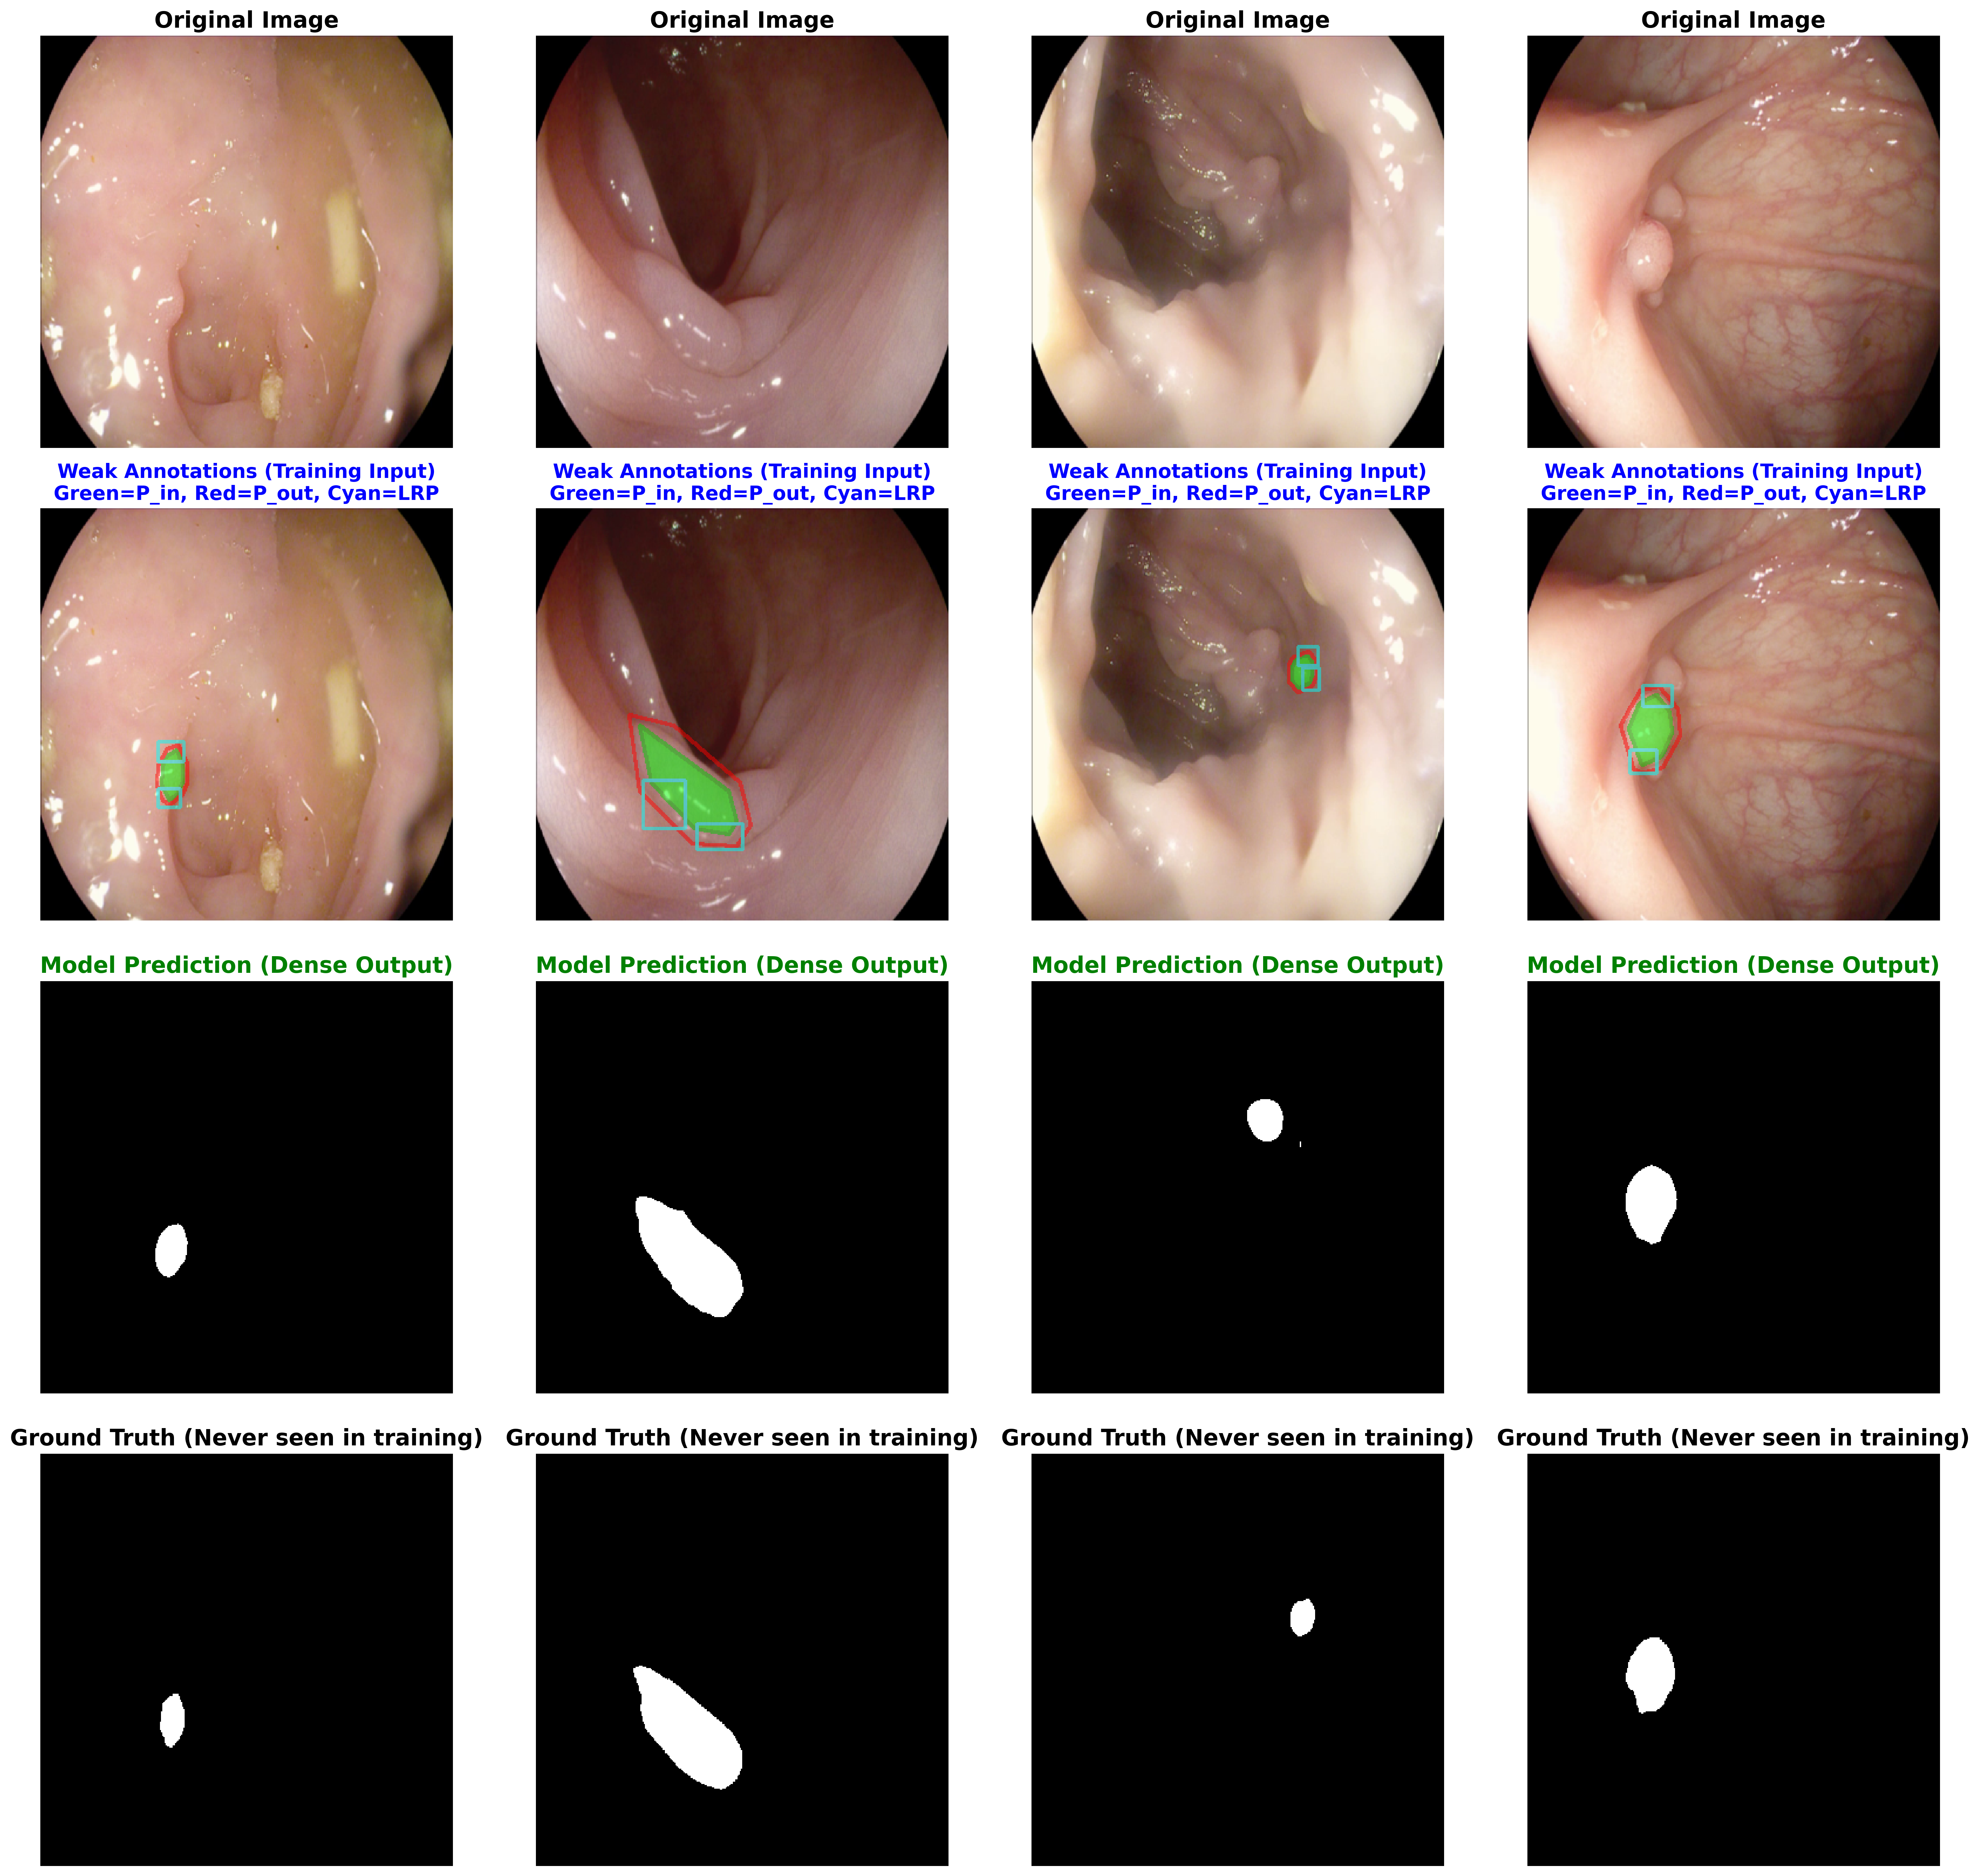
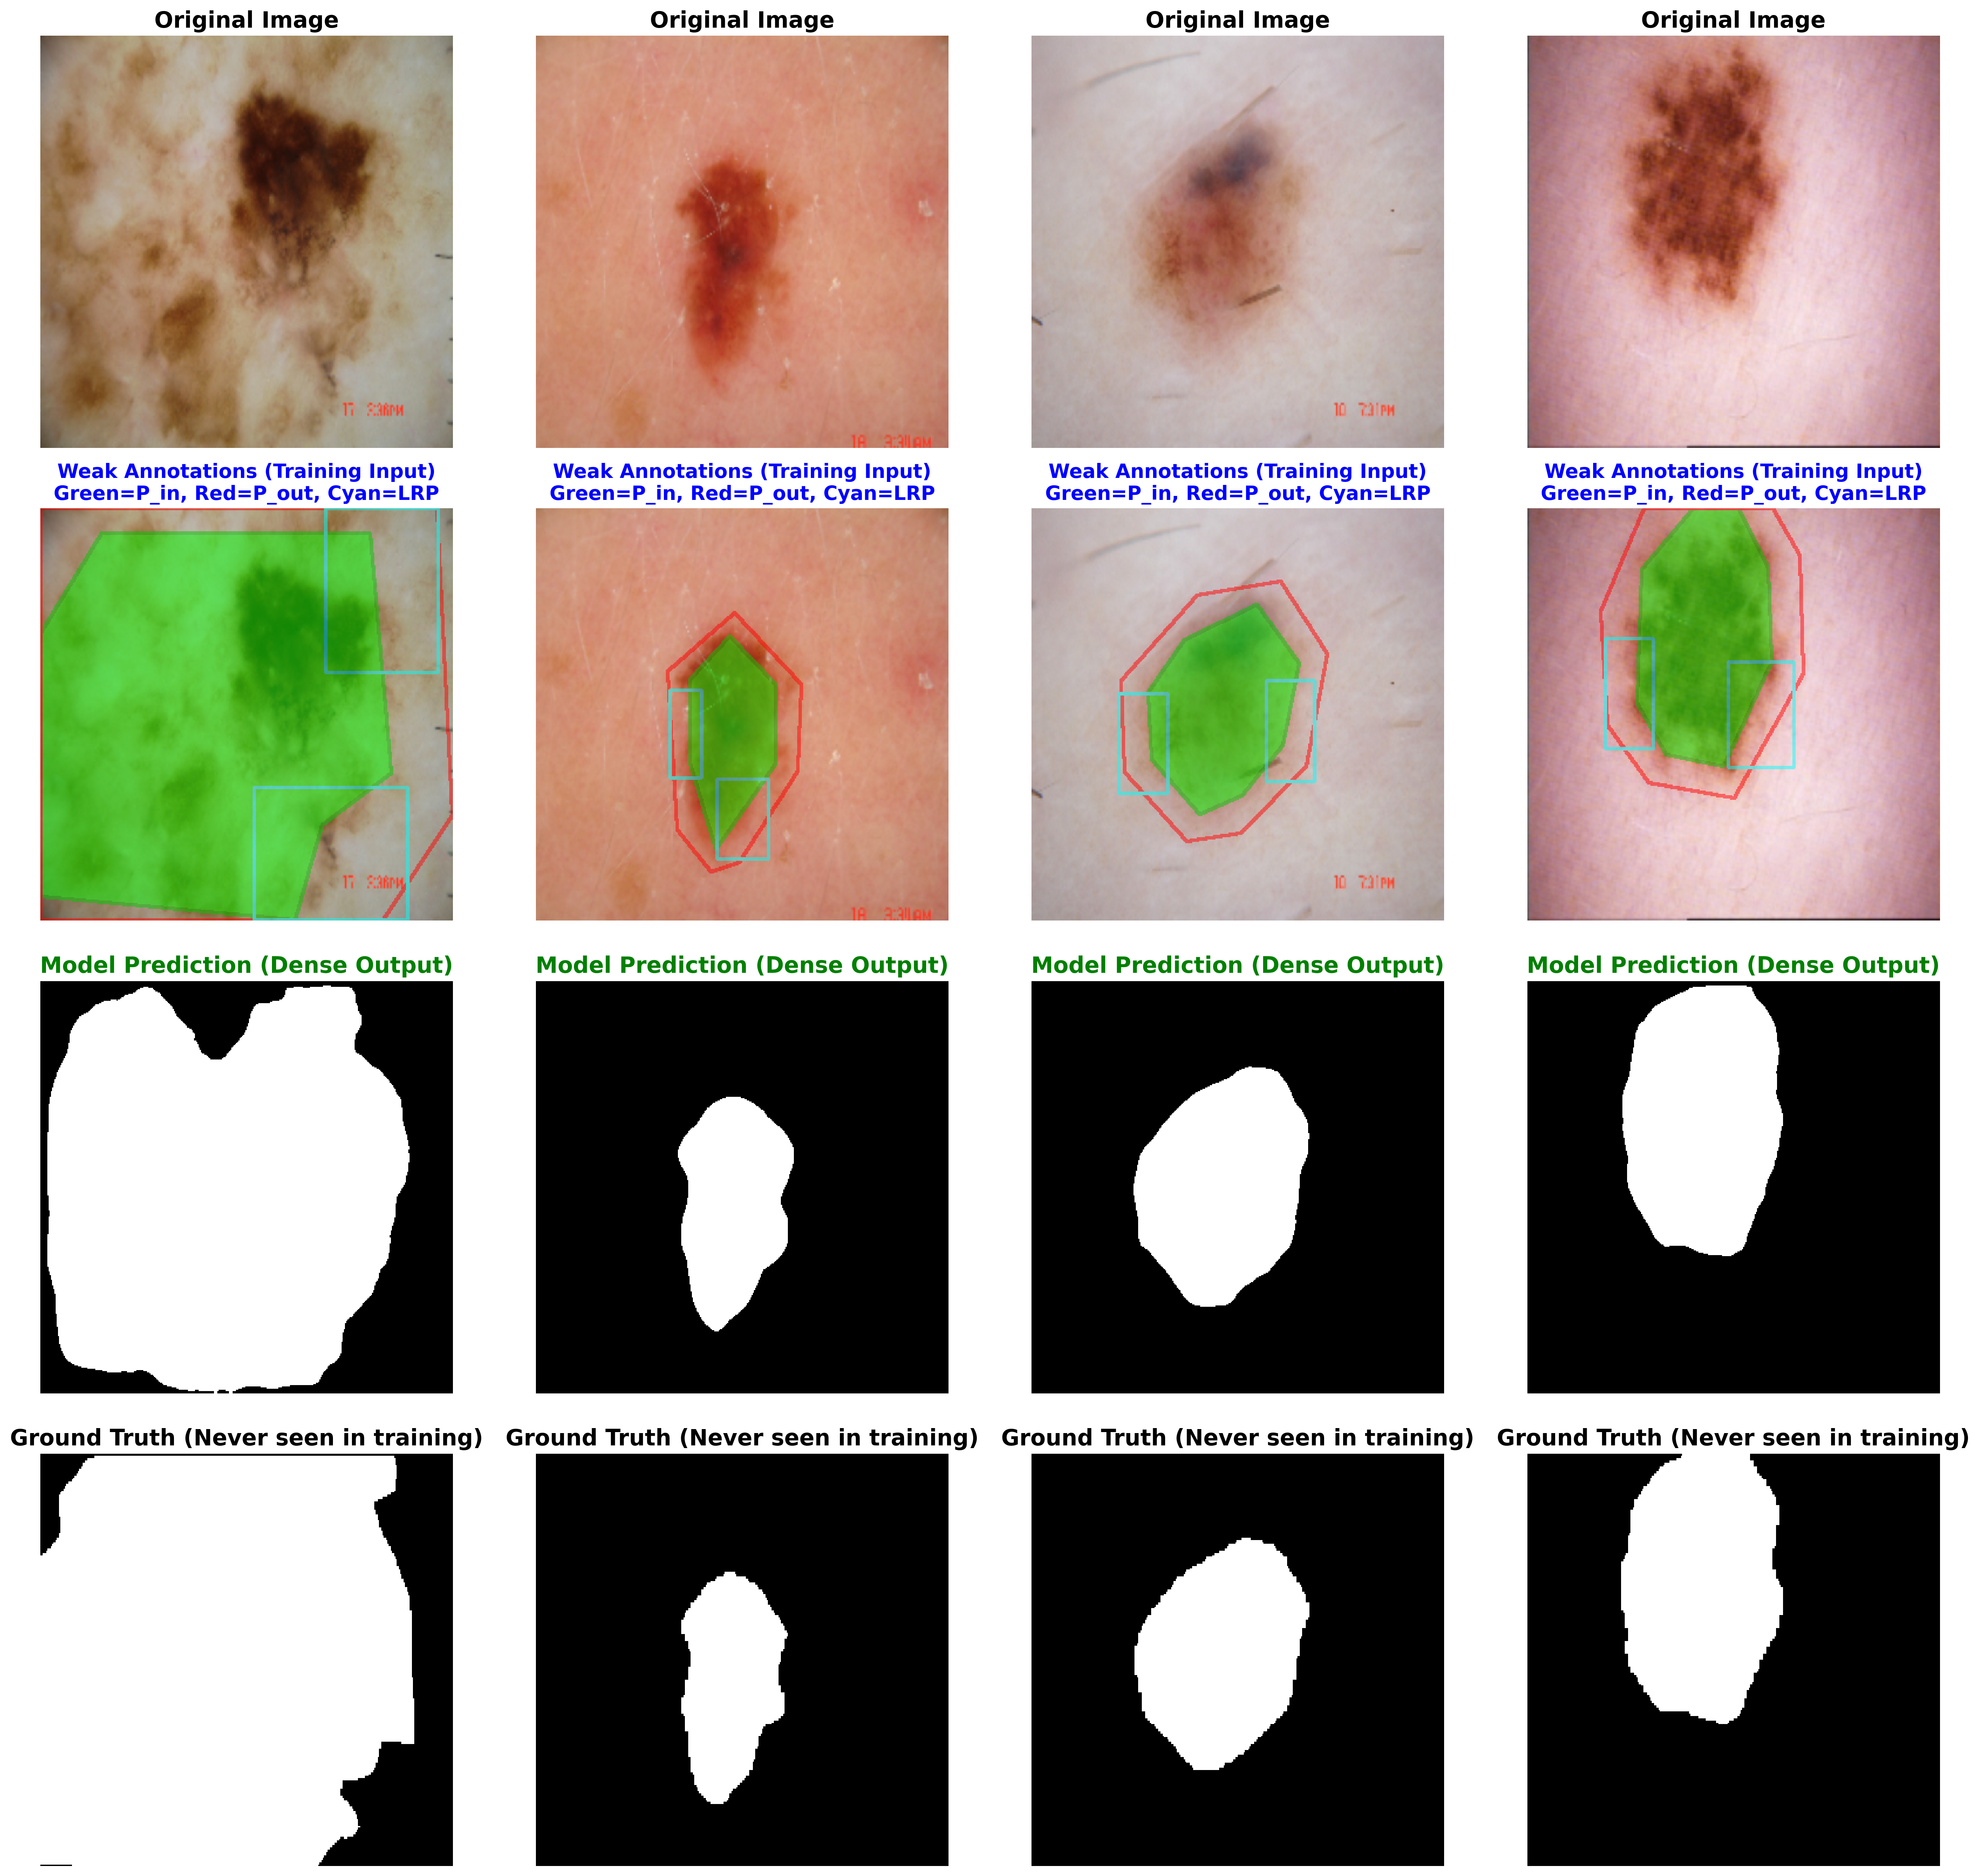
separate codes for bpannotation and hupannotation

diff --git a/utils/dataloader_hup.py b/utils/dataloader_hup.py
@@ -1,4 +1,4 @@
-# dataloader.py  —  HUPAnno dataloader with Dynamic Sizing + Multi-Format Support
+# dataloader_hup.py  —  HUPAnno dataloader with Dynamic Sizing + Multi-Format Support
 # Handles: .png, .jpg, .jpeg, .bmp, .tif, .tiff, .npy
 # Auto-scales annotation to lesion size (adapts to Kvasir large polyps vs Liver small lesions)
 